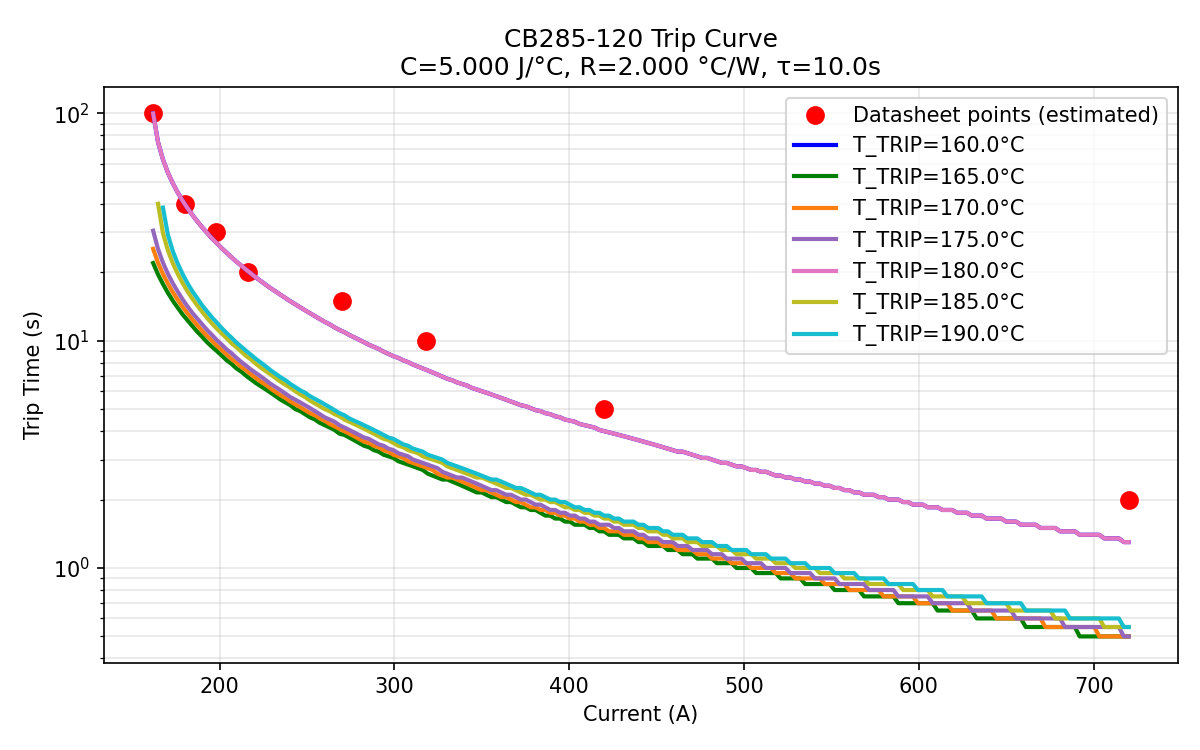
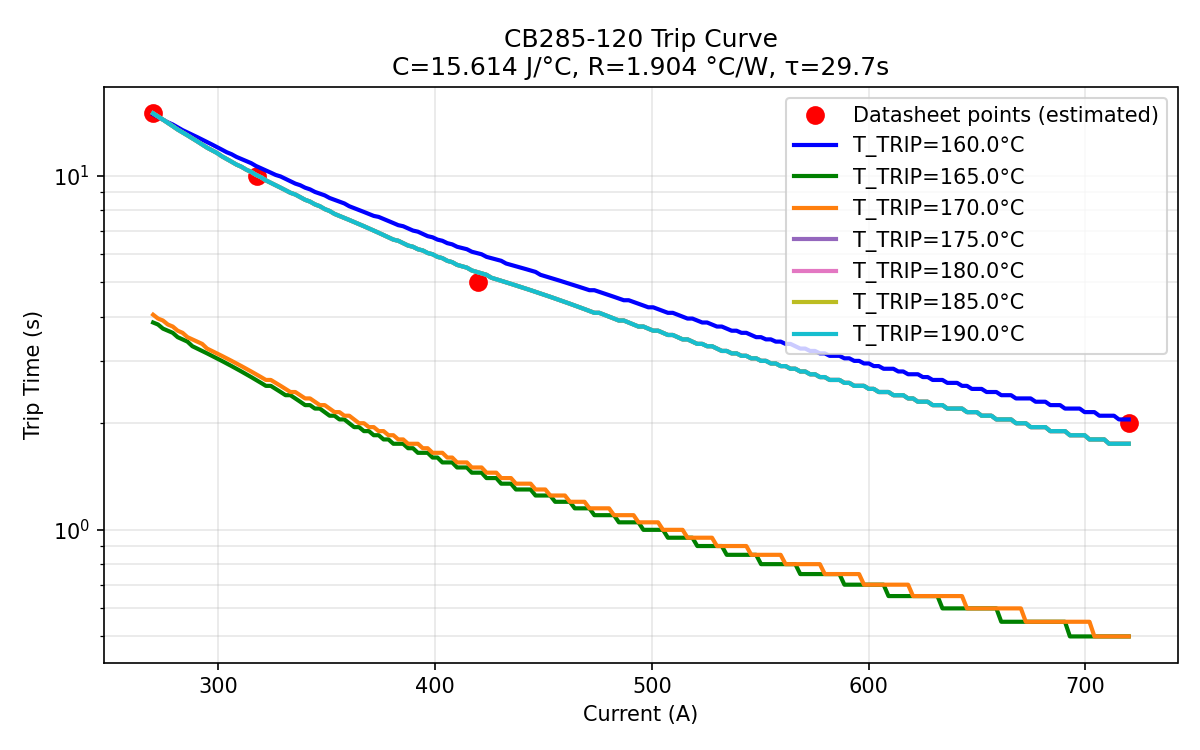
Full breaker temperature simulation

diff --git a/src/main/java/com/gemsrobotics/energy/EnergyLogger.java b/src/main/java/com/gemsrobotics/energy/EnergyLogger.java
@@ -34,12 +34,13 @@ public final class EnergyLogger {
         }
     }
 
+    private final BreakerSim m_breakerSim;
     private final NetworkTable m_sinksTable;
     private final Map<String, PowerSinkLogger> m_sinkLoggers;
     private final Map<String, Double> m_sinkCurrents,
             m_sinkPowers, m_sinkEnergies;
     private final DoublePublisher m_batteryVoltagePublisher, m_totalCurrentPublisher,
-            m_totalPowerPublisher, m_totalEnergyPublisher;
+            m_totalPowerPublisher, m_totalEnergyPublisher, m_estimatedBreakerTemperaturePublisher;
 
     private double m_totalCurrentAmps;
     private double m_totalPowerWatts;
@@ -48,12 +49,14 @@ public final class EnergyLogger {
     private final List<PowerSink> m_powerSinks;
 
     public EnergyLogger() {
+        m_breakerSim = new BreakerSim();
         m_sinkLoggers = new HashMap<>();
         m_sinkCurrents = new HashMap<>();
         m_sinkPowers = new HashMap<>();
         m_sinkEnergies = new HashMap<>();
 
         final NetworkTable myTable = NetworkTableInstance.getDefault().getTable("energy");
+        m_estimatedBreakerTemperaturePublisher = myTable.getDoubleTopic("estimated_breaker_temperature").publish();
         m_sinksTable = myTable.getSubTable("sinks");
         m_batteryVoltagePublisher = myTable.getDoubleTopic("battery_volts").publish();
         m_totalCurrentPublisher = myTable.getDoubleTopic("total_current_amps").publish();
@@ -91,6 +94,9 @@ public final class EnergyLogger {
             m_sinkLoggers.get(sink.getName()).log(current, power, joulesToWattHours(totalSinkEnergy));
         }
 
+        m_breakerSim.update(m_totalPowerWatts);
+
+        m_estimatedBreakerTemperaturePublisher.set(m_breakerSim.getTemperature());
         m_batteryVoltagePublisher.set(RobotController.getBatteryVoltage());
         m_totalCurrentPublisher.set(m_totalCurrentAmps);
         m_totalPowerPublisher.set(m_totalPowerWatts);

diff --git a/src/main/java/com/gemsrobotics/energy/BreakerSim.java b/src/main/java/com/gemsrobotics/energy/BreakerSim.java
@@ -1,0 +1,44 @@
+package com.gemsrobotics.energy;
+
+import edu.wpi.first.units.TemperatureUnit;
+import edu.wpi.first.units.measure.Temperature;
+import edu.wpi.first.wpilibj.Timer;
+
+import static edu.wpi.first.units.Units.Celsius;
+
+public final class BreakerSim {
+	private final double m_ambientTemperature;
+	private double m_lastTimestamp;
+	private double m_temperature;
+
+	// degrees per watt
+	private static final double THERMAL_RESISTANCE = 1.9043;
+	// joules per degree
+	private static final double THERMAL_CAPACITANCE = 15.6137;
+
+	public BreakerSim(final Temperature ambientTemperature) {
+		m_lastTimestamp = Double.NaN;
+		m_ambientTemperature = ambientTemperature.in(Celsius);
+		m_temperature = 0.0;
+	}
+
+	public BreakerSim() {
+		this(Celsius.of(25.0));
+	}
+
+	public void update(final double powerInWatts) {
+		if (Double.isNaN(m_lastTimestamp)) {
+			m_lastTimestamp = Timer.getTimestamp();
+		}
+
+		final double timestamp = Timer.getTimestamp();
+		final double dt = timestamp - m_lastTimestamp;
+		final double cooling = (m_temperature - m_ambientTemperature) / THERMAL_RESISTANCE;
+		final double dTdt = (powerInWatts - cooling) / THERMAL_CAPACITANCE;
+		m_temperature += dTdt * dt;
+	}
+
+	public double getTemperature() {
+		return m_temperature;
+	}
+}

diff --git a/breaker_simulation/breaker_ode.py b/breaker_simulation/breaker_ode.py
@@ -36,7 +36,7 @@ HOW TO USE:
    For the CB285-120, this is typically in the range of 0.5–2 mΩ.
    If you don't have it, use the power-based mode (see P_IN_WATTS_MODE).
 
-4. Run: python breaker_param_fit.py
+4. Run: python breaker_ode.py
 -----------------------------------------------------------------------
 '''
 
@@ -73,14 +73,14 @@ R_BREAKER = 0.003  # 1 mΩ — measure this
 # Read the actual values off your datasheet before using for real design work.
 # ---------------------------------------------------------------
 TRIP_DATA = [
-    (1.35, 100.0),
-    (1.5, 40.0),
-    (1.65, 30.0),
-    (1.8, 20.0),
+    # (1.35, 100.0),
+    # (1.5, 40.0),
+    # (1.65, 30.0),
+    # (1.8, 20.0),
     (2.25, 15.0),
     (2.65, 10.0),
     (3.5, 5.0),  # 350% rated current -> ~5s trip   (estimate)
-    (6.0, 2.0),  # 600% rated current -> ~1s trip    (estimate)
+    (6.0, 2.0),  # 600% rated current -> ~2s trip    (estimate)
 ]
 
 # sort by the trip times
